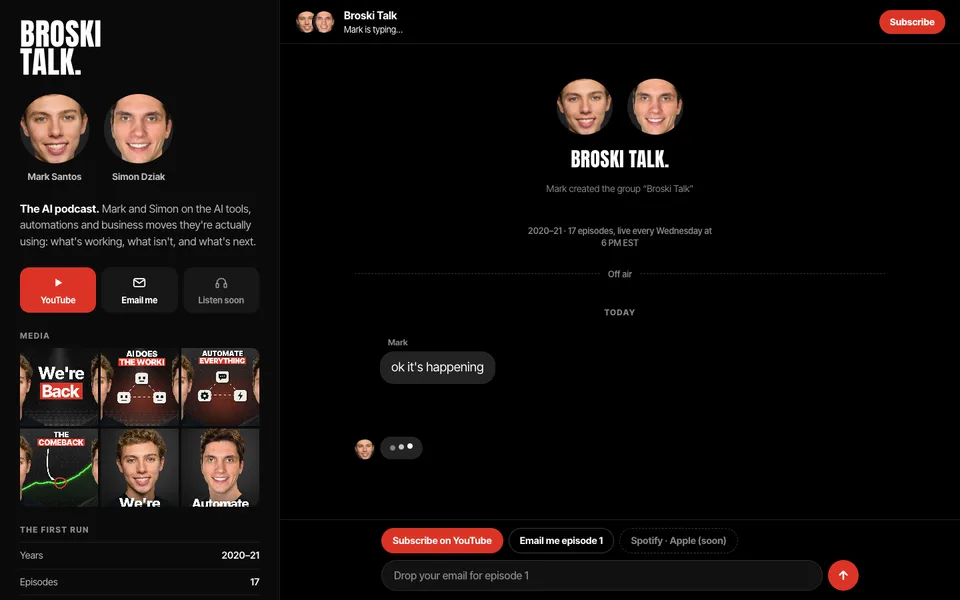
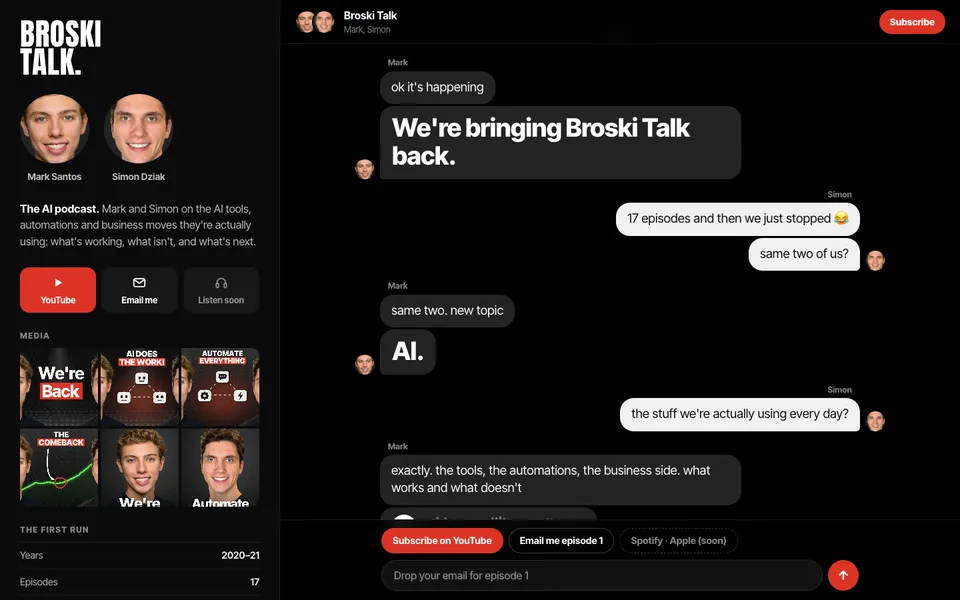
options.html lists all five directions (B marked picked); README notes D, E and the root copies

diff --git a/options.html b/options.html
@@ -1,0 +1,44 @@
+<!doctype html>
+<html lang="en">
+<head>
+<meta charset="utf-8">
+<meta name="viewport" content="width=device-width, initial-scale=1">
+<title>Broski Talk · Five Directions</title>
+<link rel="icon" href="assets/logo/favicon.png">
+<style>
+@font-face { font-family: "Anton"; src: url("assets/fonts/Anton.ttf") format("truetype"); font-display: swap; }
+@font-face { font-family: "Inter Tight"; src: url("assets/fonts/InterTight.ttf") format("truetype"); font-weight: 100 900; font-display: swap; }
+:root { --red: #DC3426; }
+* { box-sizing: border-box; }
+html { background: #000; color: #fff; }
+body { margin: 0; font-family: "Inter Tight", system-ui, sans-serif; padding: clamp(28px, 5vw, 72px) clamp(16px, 4vw, 56px) 80px; }
+h1 { margin: 0; font-family: Anton, sans-serif; font-weight: 400; font-size: clamp(48px, 7vw, 110px); line-height: .9; text-transform: uppercase; }
+h1 span { color: var(--red); }
+.lead { margin: 18px 0 0; max-width: 60ch; color: rgba(255,255,255,.72); font-size: 18px; line-height: 1.5; }
+ol { list-style: none; margin: 48px 0 0; padding: 0; display: grid; grid-template-columns: repeat(6, 1fr); gap: 40px 22px; }
+ol li { grid-column: span 2; }
+ol li:nth-child(4) { grid-column: 2 / span 2; }
+.new { display: inline-block; margin-left: 8px; padding: 2px 7px 1px; border-radius: 4px; background: var(--red); color: #fff; font-size: 12px; letter-spacing: .1em; vertical-align: 2px; }
+.pick { display: inline-block; margin-left: 8px; padding: 2px 7px 1px; border-radius: 4px; background: #fff; color: #000; font-size: 12px; letter-spacing: .1em; vertical-align: 2px; }
+a { color: inherit; text-decoration: none; display: grid; gap: 14px; }
+a img { width: 100%; aspect-ratio: 16 / 10; object-fit: cover; border-radius: 10px; outline: 1px solid rgba(255,255,255,.14); transition: transform .5s cubic-bezier(.16,1,.3,1); }
+a:hover img { transform: translateY(-4px); }
+a:focus-visible { outline: 2px solid #fff; outline-offset: 6px; border-radius: 10px; }
+.k { font-family: Anton, sans-serif; font-size: 15px; letter-spacing: .14em; color: rgba(255,255,255,.55); }
+b { display: block; font-size: 26px; font-weight: 800; letter-spacing: -.02em; }
+p { margin: 6px 0 0; color: rgba(255,255,255,.72); font-size: 16px; line-height: 1.45; }
+@media (max-width: 900px) { ol { grid-template-columns: 1fr; } ol li, ol li:nth-child(4) { grid-column: auto; } }
+</style>
+</head>
+<body>
+<h1>Broski Talk<span>.</span> Five landing pages</h1>
+<p class="lead">Same brand kit, five directions. B is the current pick (it's the live index page); D and E are new as of Nov 7.</p>
+<ol>
+  <li><a href="a-on-air/"><img src="assets/previews/a-on-air.webp" alt="Preview of direction A"><span class="k">A · ON AIR</span><b>The banner comes alive</b><p>Pure black, a live waveform across the hosts. Press play and the intro music drives the waveform, the hosts turn to colour and the ON AIR light goes red.</p></a></li>
+  <li><a href="./"><img src="assets/previews/b-thumbnail.webp" alt="Preview of direction B"><span class="k">B · THUMBNAIL <span class="pick">PICKED</span></span><b>A living YouTube thumbnail</b><p>Faces pinned to the screen edges while the red-box headline rewrites itself as you scroll, then a YouTube-style channel: episode grid, Shorts, channel header.</p></a></li>
+  <li><a href="c-comeback/"><img src="assets/previews/c-comeback.webp" alt="Preview of direction C"><span class="k">C · THE COMEBACK</span><b>A fight-night comeback poster</b><p>White paper, giant Anton, halftone portraits. The 17-episode comeback chart, a then-vs-now tale of the tape, and the card of what's coming.</p></a></li>
+  <li><a href="d-group-chat/"><img src="assets/previews/d-group-chat.webp" alt="Preview of direction D"><span class="k">D · GROUP CHAT <span class="new">NEW</span></span><b>The show is your group chat</b><p>The page is Mark and Simon's thread. Messages type in as you scroll, a voice note plays the intro, episodes arrive as link previews, then you're added and sign up by replying.</p></a></li>
+  <li><a href="e-workflow/"><img src="assets/previews/e-workflow.webp" alt="Preview of direction E"><span class="k">E · WORKFLOW <span class="new">NEW</span></span><b>The show as an automation</b><p>A node canvas like n8n or Make: the hosts feed the show, topics fan out, episodes come out the other end and the last node is you. Drag the nodes, hit Run and watch it flow.</p></a></li>
+</ol>
+</body>
+</html>

diff --git a/README.md b/README.md
@@ -4,6 +4,8 @@ The Broski Talk relaunch landing page, built from the brand kit in `~/Pictures/B
 Static HTML, no build step.
 
 - `index.html` = the site (direction B · Thumbnail, picked 2026-11-07).
+- `d-group-chat/`, `e-workflow/` = two more directions made 2026-11-07 after the pick (D · Group Chat, E · Workflow); `options.html` lists all five.
+- `a-on-air/`, `b-thumbnail/`, `c-comeback/` at the root = the original versions, kept so old links work.
 - `_archive/` = the two unpicked directions (`a-on-air/`, `c-comeback/`) and the old picker page, still viewable.
 - Served locally through the review server: http://127.0.0.1:4949/broski-talk-site/
   (symlink `~/Developer/automation/reviews/broski-talk-site` -> this folder)
@@ -15,3 +17,4 @@ Static HTML, no build step.
 - Spotify / Apple Podcasts links are `#` (no RSS feed yet).
 - Email forms validate and show a success message but aren't connected to an email provider.
 - Episode titles are working titles taken from the kit thumbnails; no release dates are shown.
+- D's chat lines are scripted copy written for the page (Simon's lines included); have Mark and Simon approve the wording.

diff --git a/DESIGN.md b/DESIGN.md
@@ -15,3 +15,5 @@ Brand kit is the authority: `~/Pictures/Branding/Broski Talk/BRAND-GUIDE.md`. Th
 - **A · On Air** — pure black, full-width live waveform canvas, B&W hosts that colour up when the intro plays, red ON AIR tally.
 - **B · Thumbnail** — thumbnail grey + top light + halftone dots, faces pinned to the screen edges, Inter Tight 800 headline with one red box that rewrites per scroll step; YouTube-native grammar below.
 - **C · Comeback** — white poster, black Anton at page scale, newsprint halftone hosts, 6 px black rules, the 2020→2026 comeback chart as the story.
+- **D · Group Chat** — black messaging app: Mark's graphite bubbles left, Simon's white right, the visitor's red; typing dots, a voice note that plays the intro, link previews, a video message; quick-reply chips and a composer that collect the email.
+- **E · Workflow** — light dot-grid automation canvas: white nodes with 1.5px black outlines and a hard 4px offset shadow, typed headers, bezier wires with ports; hosts feed the show node, nodes drag by their header, Run sends red packets through the graph to the "You" node.
